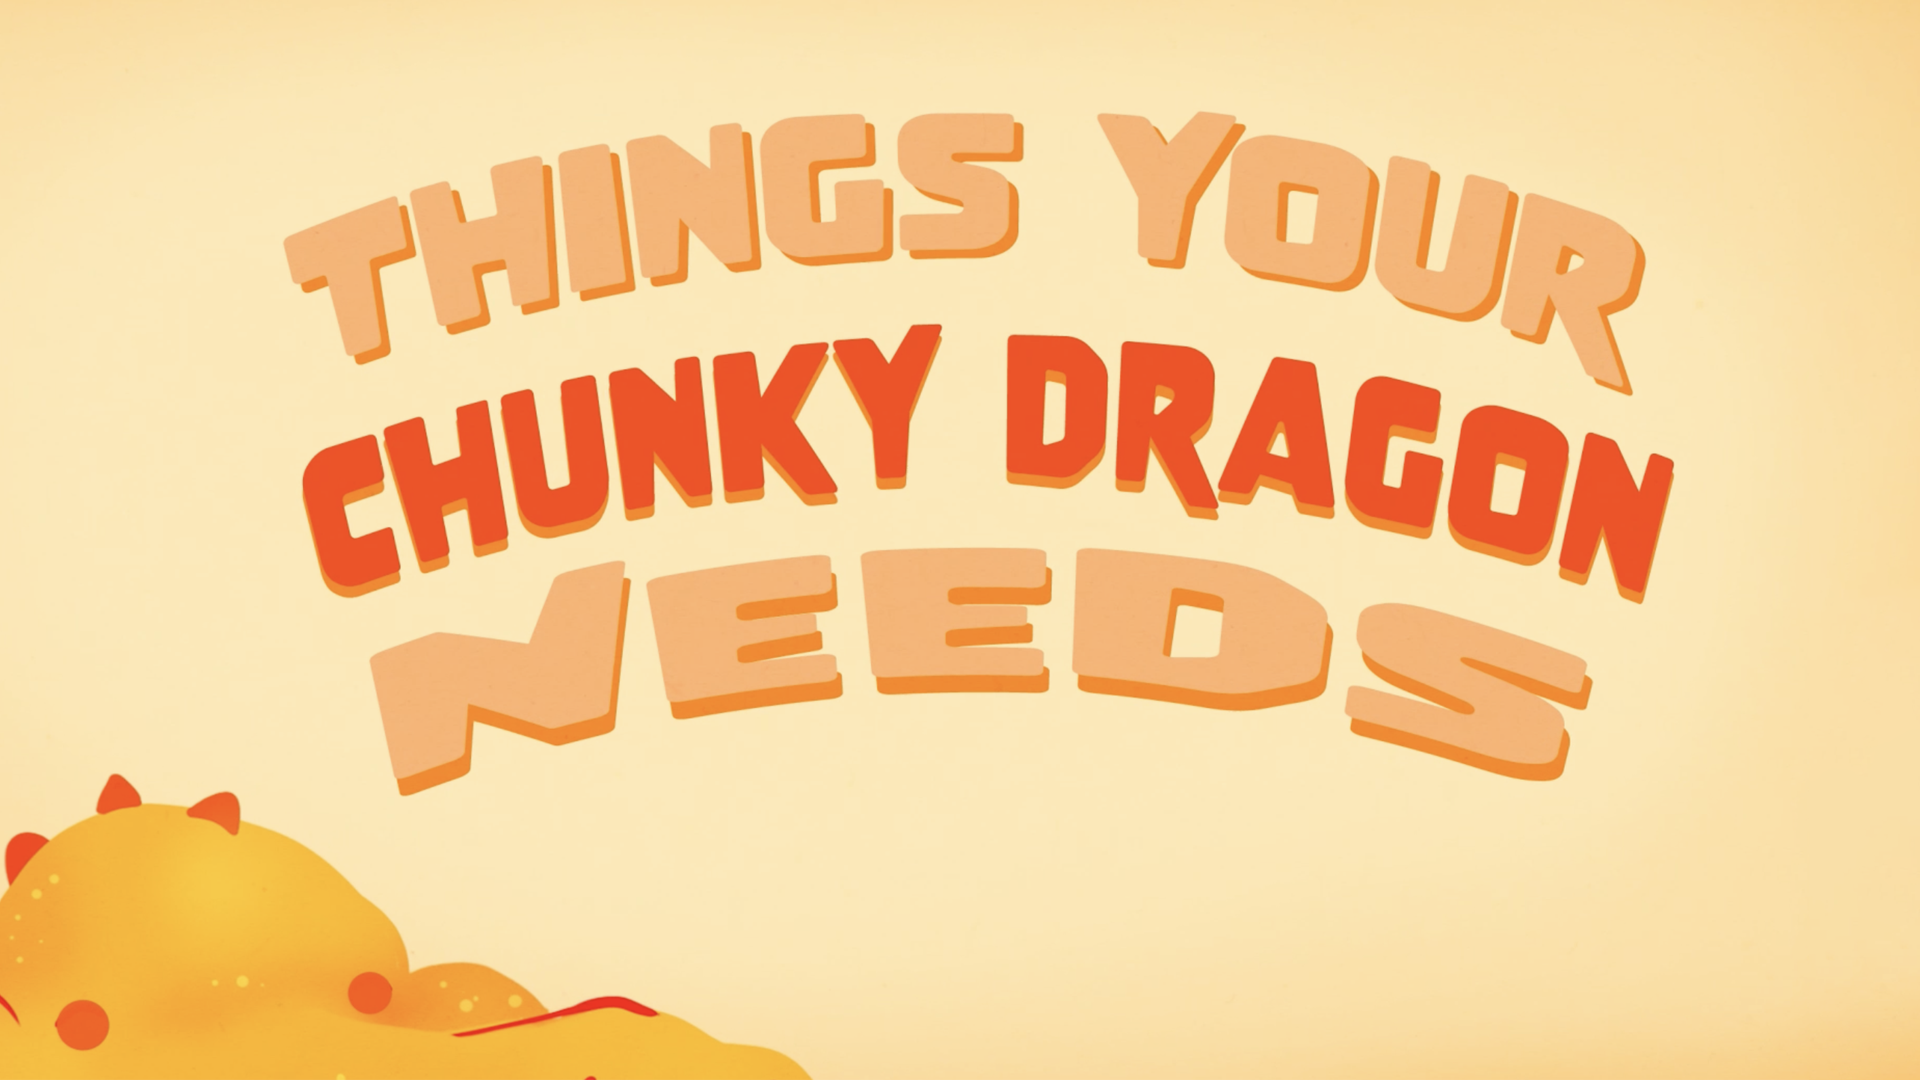
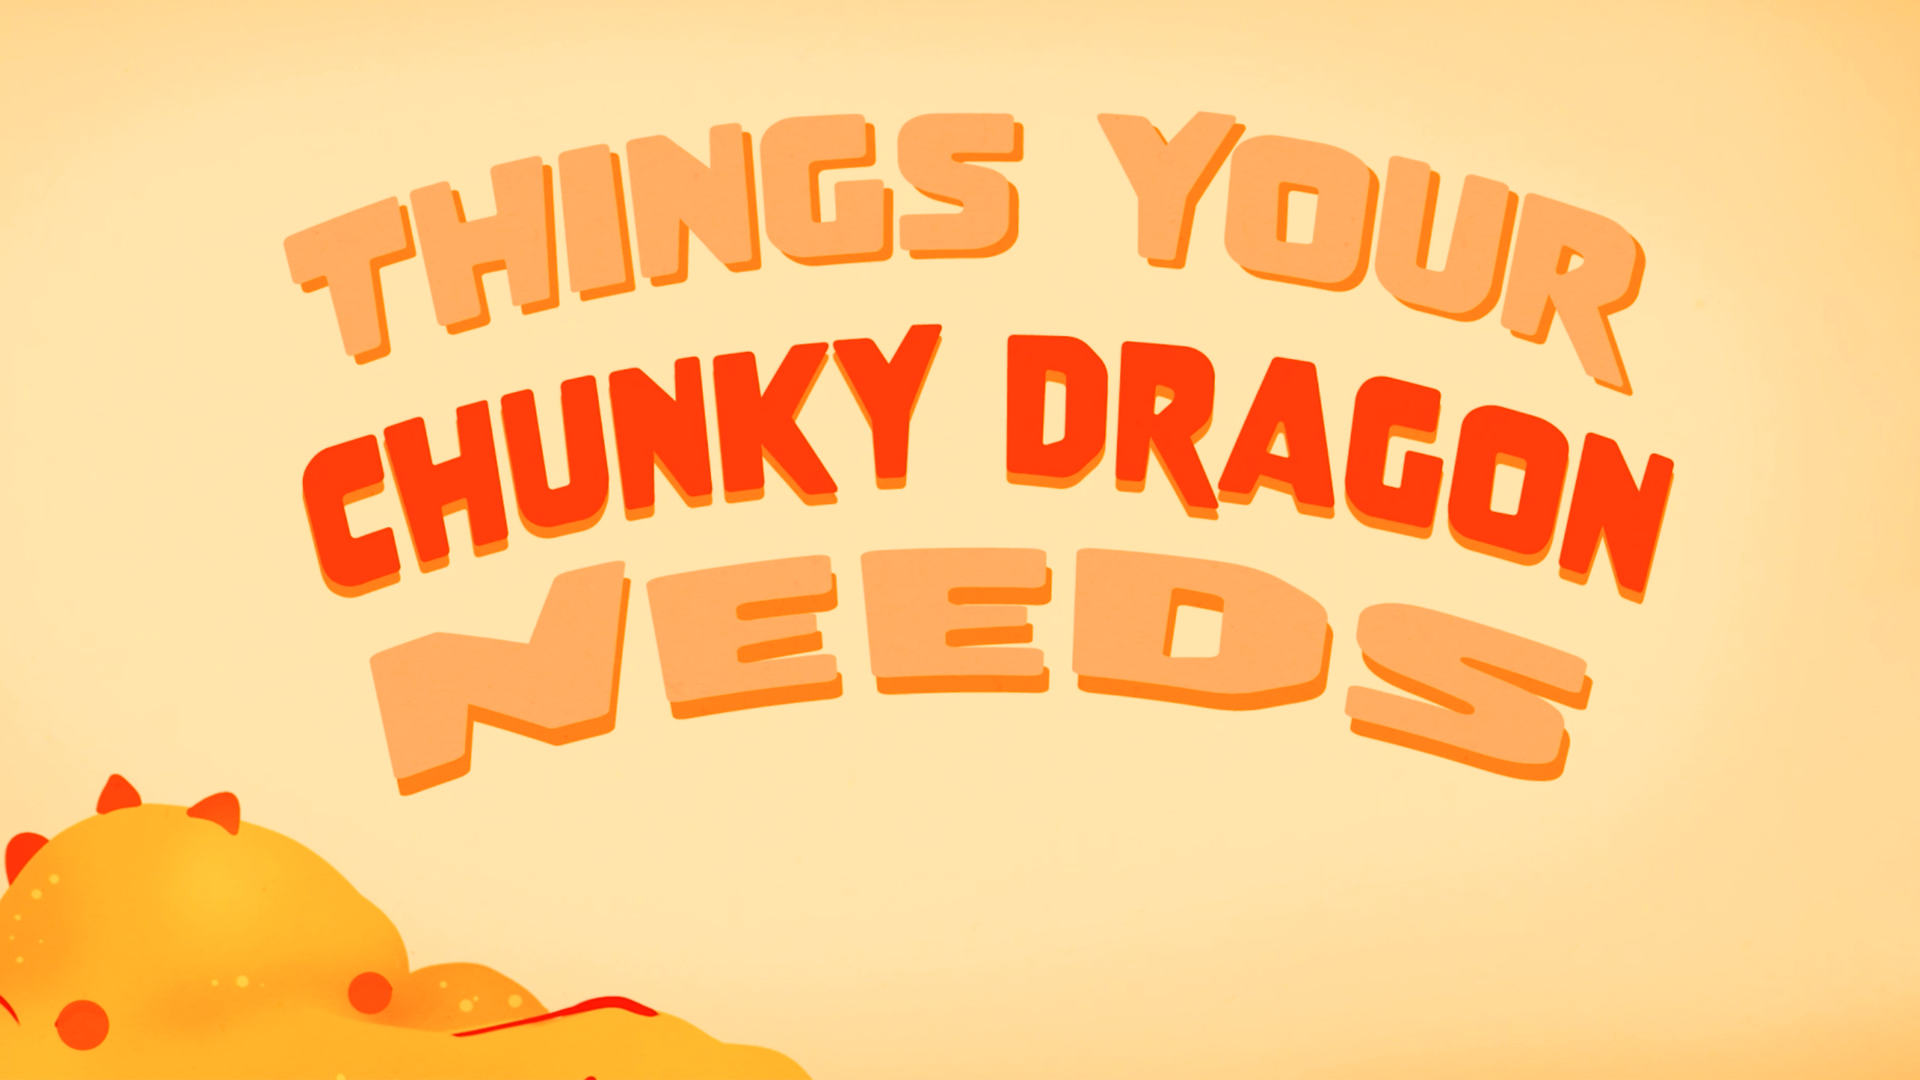
changed font

diff --git a/ballproject.html b/ballproject.html
@@ -37,7 +37,7 @@
 
 <main class="site-main fade-and-move-in">
     <section class="port-hero">
-      <img src="img/constellation.png" alt="Cow Project" width="1920px" height="1200px">
+      <img src="img/constellation.png" alt="Ball Project" width="1920px" height="1200px">
     </section>
     <section class="port-blurb">
       <h1> Starry Adventures </h1>
@@ -59,14 +59,14 @@
                 <p>When sketching out my storyboard I had to keep the pacing in mind. It is important it's clear to the audience what the main subject (the ball) is doing or where it's going. </p>
 
                 <h4 class="sectionsub"> Scope </h4>
-                <p>Project Type: Ball Animation</p>
+                <p>Project Type: Animation</p>
                 <p>Software: After Effects</p>
                 <p>Year: 2023</p>
 
             </div>
         </div>
         <div class="sketching">
-          <img src="img/ball_sketching.png" alt="my cow sketches" width="2000px" height="1200px">
+          <img src="img/ball_sketching.png" alt="my star sketches" width="2000px" height="1200px">
          </div>
     </div>
     
@@ -75,7 +75,7 @@
   <section id="solution">
     <h2 class="sectionhead">Final Animation</h2>
     <div class="finalproduct">
-      <div style="padding:56.25% 0 0 0;position:relative;"><iframe src="https://player.vimeo.com/video/1004786492?badge=0&amp;autopause=0&amp;player_id=0&amp;app_id=58479" frameborder="0" allow="autoplay; fullscreen; picture-in-picture; clipboard-write" style="position:absolute;top:0;left:0;width:100%;height:100%;" title="Constellation"></iframe></div><script src="https://player.vimeo.com/api/player.js"></script> 
+      <div style="padding:56.25% 0 0 0;position:relative;"><iframe src="https://player.vimeo.com/video/1004786492?autoplay=1&loop=1&autopause=0badge=0&amp;autopause=0&amp;player_id=0&amp;app_id=58479" frameborder="0" allow="autoplay; fullscreen; picture-in-picture; clipboard-write" style="position:absolute;top:0;left:0;width:100%;height:100%;" title="Constellation"></iframe></div><script src="https://player.vimeo.com/api/player.js"></script> 
     </div>
   
 </section>

diff --git a/dragonproject.html b/dragonproject.html
@@ -56,7 +56,7 @@
                 <p>The goal was to animate an video essay. I decided to animate "Things Your Chunky Dragon Needs". I wanted to incorporate my childhood into my project by bringing my own illustrations to life. Who doesn't want a pet dragon?</p>
 
                 <h4 class="sectionsub">Research and Sketching</h4>
-                <p>What style of illustration would fit a childrens show/book? What colors make it feel cozy and inviting? What DO chunky dragons need? (Just like any pet they need food, baths, and love). Warm colors and soft shapes give this animation a storybook feel, as well as hand-drawn illustrations. </p>
+                <p>What style of illustration would fit a childrens show/book? What colors make it feel cozy and inviting? What DO chunky dragons need? (Just like any pet they need food, love, and baths). Warm colors and soft shapes combined with handraw-illustrations give this animation a storybook feel.
 
                 <h4 class="sectionsub"> Scope </h4>
                 <p>Project Type: Animation</p>

diff --git a/css/style.css b/css/style.css
@@ -55,8 +55,11 @@ h2 {
  h1 {
    font-size: 3em; /* 48px */
    line-height: 1; 
-   font-family: dreamboat, sans-serif;;
-   font-weight: 600;
+   /* font-family: dreamboat, sans-serif;; */
+   font-family: lust-didone, serif;
+   font-weight: 700;
+   font-style: italic;
+   /* font-weight: 600; */
 
  }
 
@@ -1033,7 +1036,7 @@ h3 {
   /* padding-top: 1em;
   padding-bottom: .5em; */
   text-align: center;
-  font-size: 6em;
+  font-size: 4em;
 
 }
 
